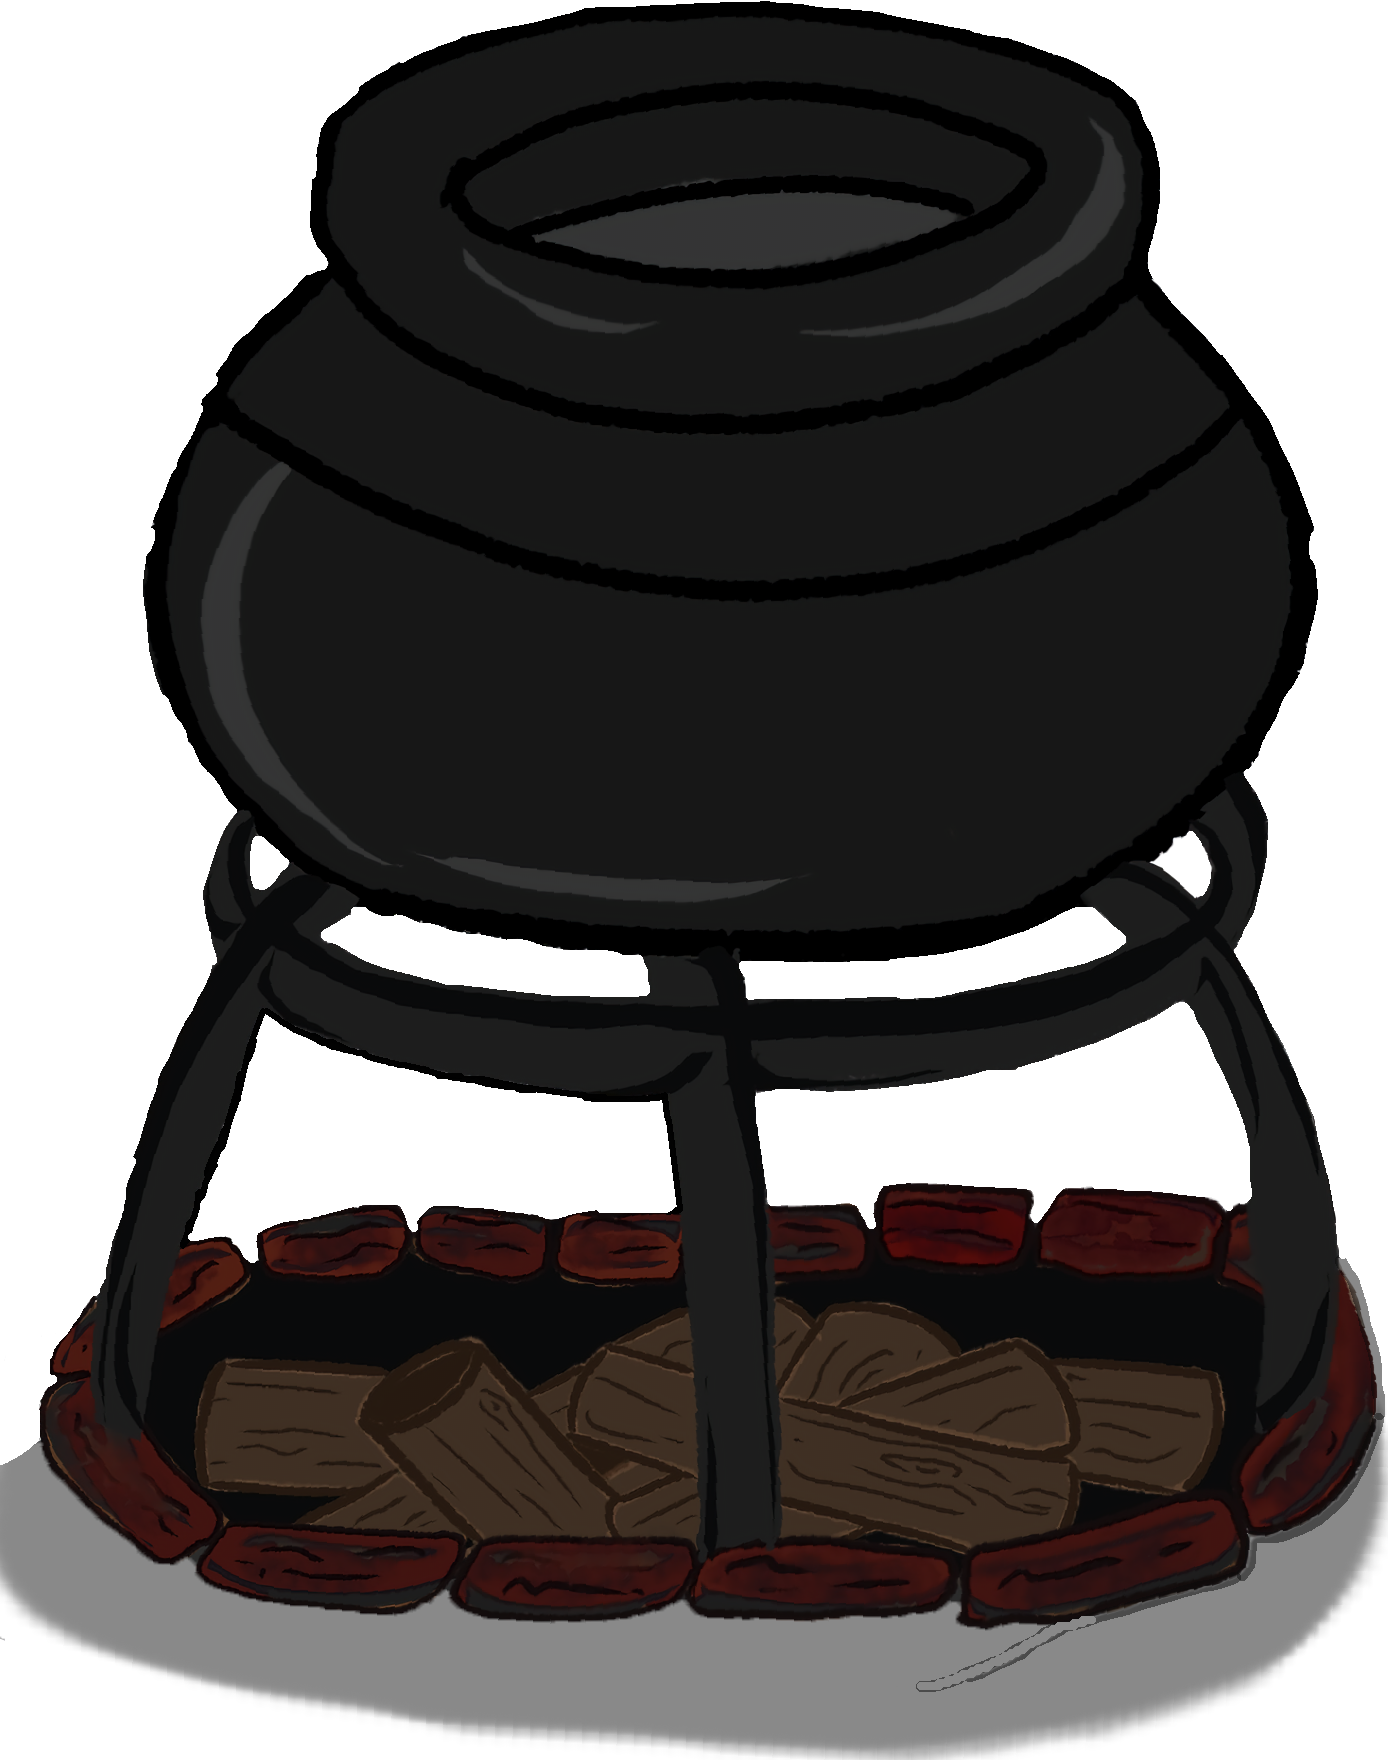
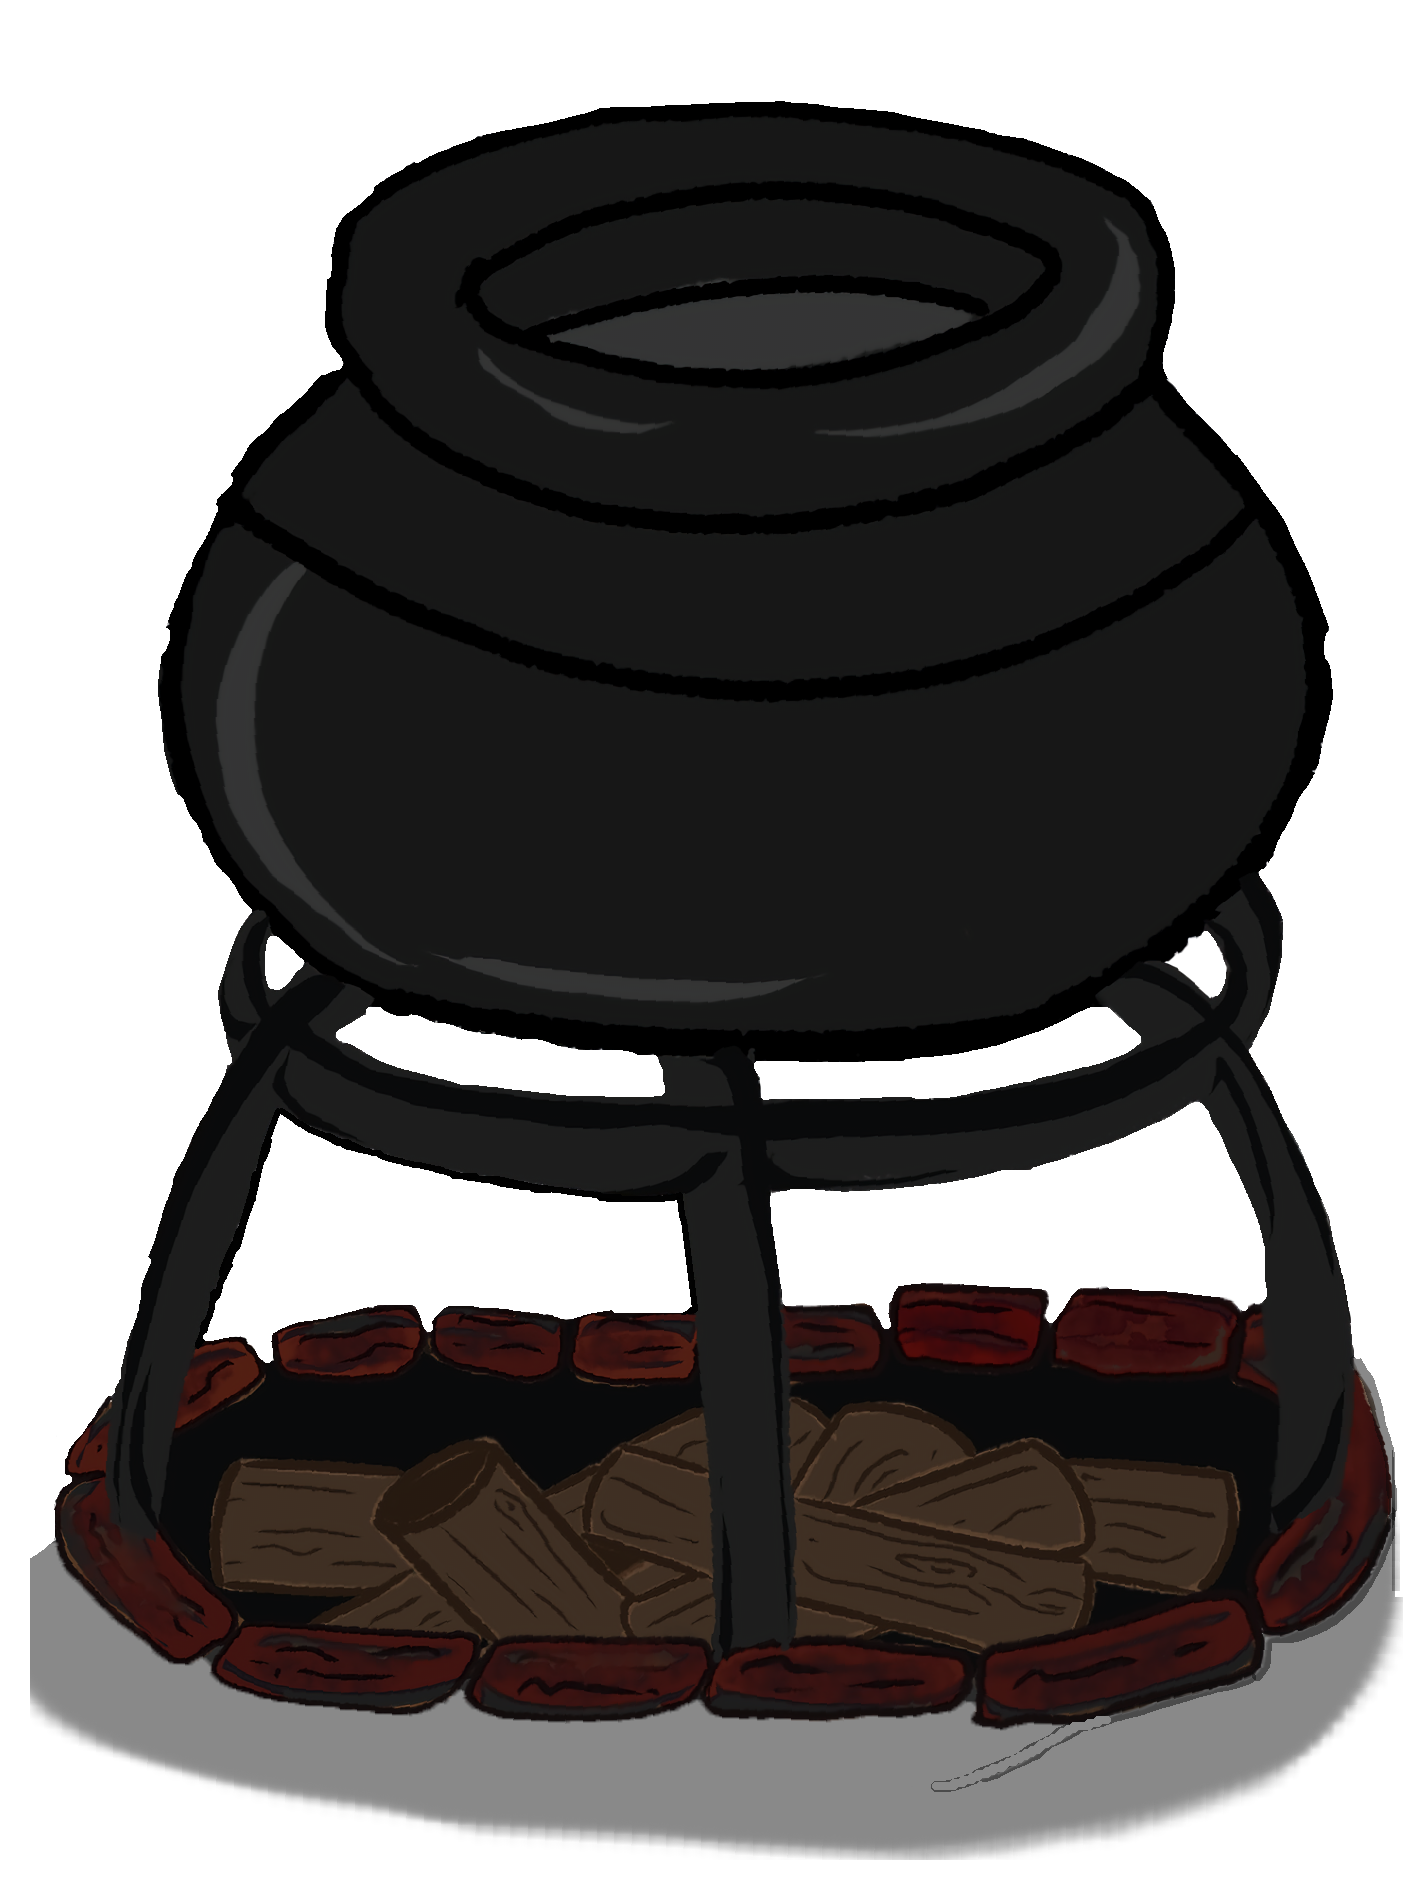
Add cauldron brewing sprite

diff --git a/src/entities/objects.js b/src/entities/objects.js
@@ -176,8 +176,8 @@ const stations = [
   new GameObject({
     x: 400,
     y: 100,
-    width: 200,
-    height: 240,
+    width: 220,
+    height: 260,
     color: "#3d3131",
 
     type: "cauldron",
@@ -187,7 +187,7 @@ const stations = [
     interactZone: {
       offsetX: 0,
       offsetY: 30,
-      width: 150,
+      width: 220,
       height: 60,
     },
 
@@ -208,8 +208,8 @@ const stations = [
   new GameObject({
     x: 700,
     y: 100,
-    width: 200,
-    height: 240,
+    width: 220,
+    height: 260,
     color: "#3d3131",
 
     type: "cauldron",
@@ -219,14 +219,14 @@ const stations = [
     interactZone: {
       offsetX: 0,
       offsetY: 30,
-      width: 150,
+      width: 220,
       height: 60,
     },
 
     hitbox: {
-      offsetX: 0,
+      offsetX: -200,
       offsetY: 30,
-      width: 150,
+      width: 500,
       height: 10,
     },
 

diff --git a/src/rendering/progressRenderer.js b/src/rendering/progressRenderer.js
@@ -1,3 +1,4 @@
+import { cauldronImg, cauldronBrewingImg } from "../data/assets.js";
 export function drawProgressBar(ctx, obj) {
   const station = obj.station;
 
@@ -27,7 +28,10 @@ export function drawProgressBar(ctx, obj) {
 export function drawCauldronProgress(ctx, obj) {
   const station = obj.station;
 
-  if (station.duration <= 0) return;
+  if (station.duration <= 0) {
+    obj.sprite = cauldronImg;
+    return;
+  }
 
   const width = 100;
   const height = 12;
@@ -42,6 +46,8 @@ export function drawCauldronProgress(ctx, obj) {
 
   // FIRST BREW
   if (station._first_brew) {
+    obj.sprite = cauldronBrewingImg;
+
     ratio = station.progress / station.duration;
 
     ctx.fillStyle = "#3fa34d";

diff --git a/src/data/assets.js b/src/data/assets.js
@@ -1,5 +1,6 @@
 import floor from "../assets/objects/floor.png";
 import cauldron from "../assets/objects/cauldron.png";
+import cauldronBrewing from "../assets/objects/cauldron-brewing.png";
 import oilVase from "../assets/objects/oil.png";
 import waterVase from "../assets/objects/water.png";
 import wineVase from "../assets/objects/wine.png";
@@ -23,6 +24,9 @@ background.src = floor;
 
 const cauldronImg = new Image();
 cauldronImg.src = cauldron;
+
+const cauldronBrewingImg = new Image();
+cauldronBrewingImg.src = cauldronBrewing;
 
 const oilVaseImg = new Image();
 oilVaseImg.src = oilVase;
@@ -94,4 +98,5 @@ export {
   cuttingImg,
   crushStationImg,
   trashCanImg,
+  cauldronBrewingImg,
 };
